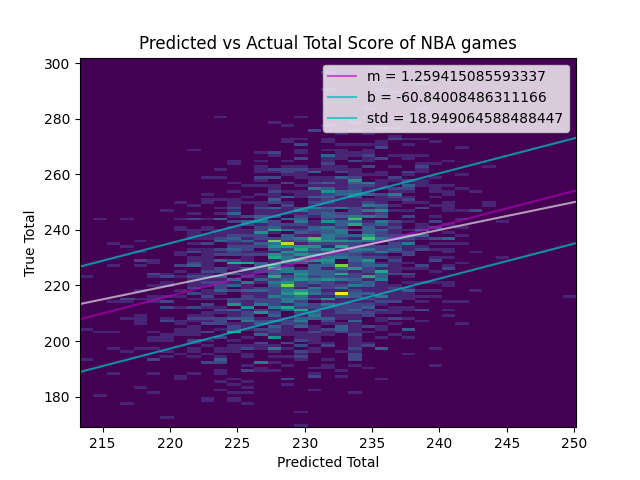
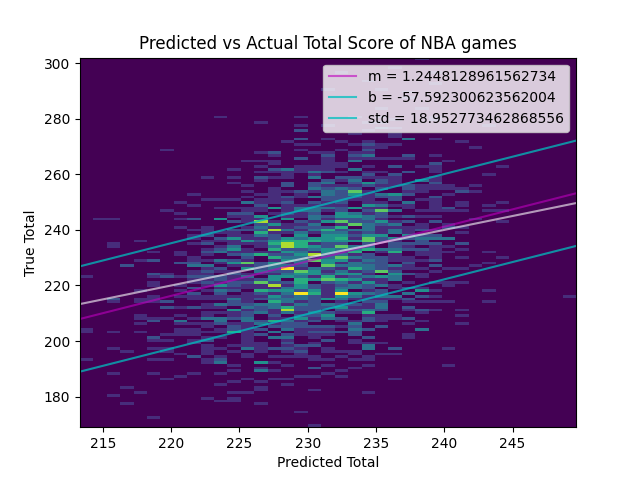
added probability walkthrough to the model. added scalar obj. started investigating optimization, model is not currently sensitive enough - gotta get a little more creative

diff --git a/app/optim/optimize.py b/app/optim/optimize.py
@@ -289,6 +289,10 @@ class BaseOptimizer:
         Store variables used for all the optimization. Child classes pass their default values here.
         """
         self.MODEL = MODEL
+        if type(MODEL) == DependentModel:
+            self.PROB_MODEL = MODEL_HOME_WIN_PR
+        else:
+            self.PROB_MODEL = None
         self.config_data_column = config_data_column
         self.sample_data_column = sample_data_column
         self.titles = TITLES_LAMBDA(debug_debug_fig_title)
@@ -329,6 +333,8 @@ class BaseOptimizer:
         # evaluate the original model with substituted parameters
         self.MODEL.weight_func = partial(recency_weight_function, z=z, b=b)
         self.MODEL.calculate_model(ref_data)
+        if self.PROB_MODEL is not None:
+            self.PROB_MODEL.calculate_model(ref_data)
 
         # looping mechanism, to check how we do live with updated models after each day of the season
         pred = []
@@ -337,9 +343,15 @@ class BaseOptimizer:
             if daybyday_prints:
                 print(">>>", game_date)
             for _, row in test_data[test_data["GAME_gameDate"] == game_date].iterrows():
-                pred.append(self.MODEL.value(row, apply_mask=True)[0])  # TODO figure out passing probability in daybyday
+                if self.PROB_MODEL is not None:
+                    prob = self.PROB_MODEL.value(row, apply_mask=True)[0]
+                    pred.append(self.MODEL.value(row, p=prob, apply_mask=True)[0])
+                else:
+                    pred.append(self.MODEL.value(row, apply_mask=True)[0])
                 ref_data.loc[len(ref_data)] = row
-            MODEL_HOME_WIN_PR.calculate_model(ref_data)
+            self.MODEL.calculate_model(ref_data)
+            if self.PROB_MODEL is not None:
+                self.PROB_MODEL.calculate_model(ref_data)
         pred = np.array(pred)
         true = test_data[self.sample_data_column].to_numpy()
 
@@ -594,8 +606,8 @@ class TotalScoreOptimizer(BaseOptimizer):
         return RCE, M, B, MAE, RMSE
 
     def objective_function_scalar(self, year, z, b):
-        # TODO design objective function scalar for total score
-        raise NotImplementedError
+        RCE, M, B, MAE, RMSE = self.objective_function_tuple(year, z, b)
+        return (-4 * RMSE**2) + (-4 * (M - 1) ** 2) + (-4 * B**2)
 
 
 def optimize(optimizer):

diff --git a/app/server/Models.py b/app/server/Models.py
@@ -35,9 +35,9 @@ def recency_weight_function(x, z, b):
     return val**b
 
 
+EVEN_WEIGHT_FUNCTION = lambda x: 1
 HOME_WIN_WEIGHT_FUNCTION = partial(recency_weight_function, z=config["HOME_WIN_PR_PARAMETERS"]["z"], b=config["HOME_WIN_PR_PARAMETERS"]["b"])
 TOTAL_SCORE_WEIGHT_FUNCTION = partial(recency_weight_function, z=config["TOTAL_SCORE_PARAMETERS"]["z"], b=config["TOTAL_SCORE_PARAMETERS"]["b"])
-EVEN_WEIGHT_FUNCTION = lambda x: 1
 
 
 class Term:
